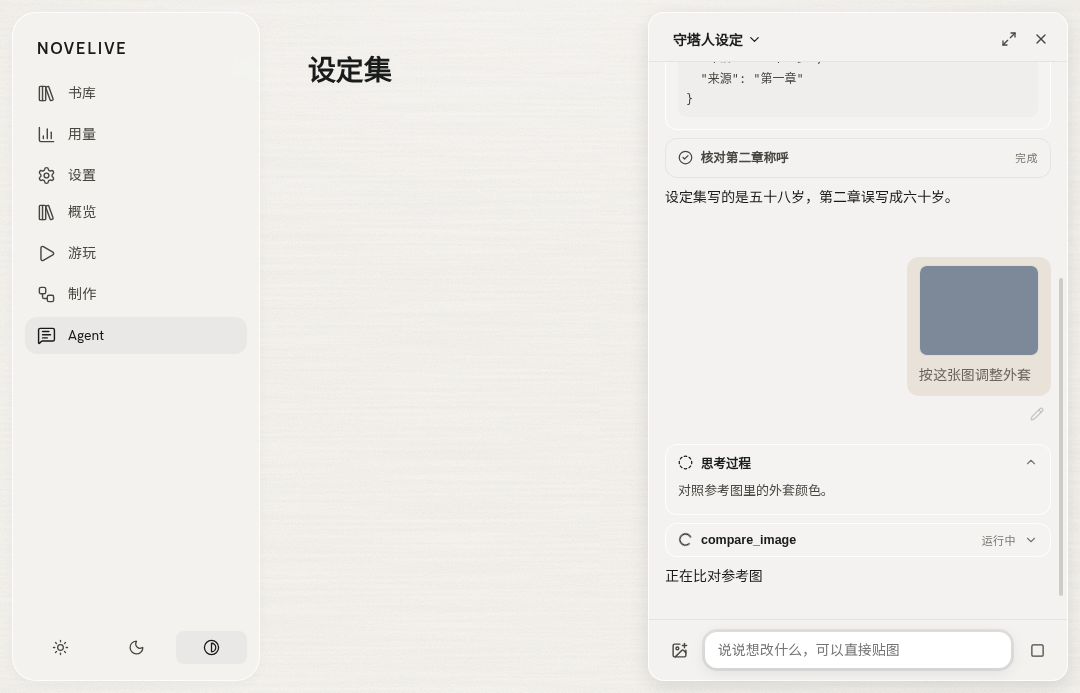
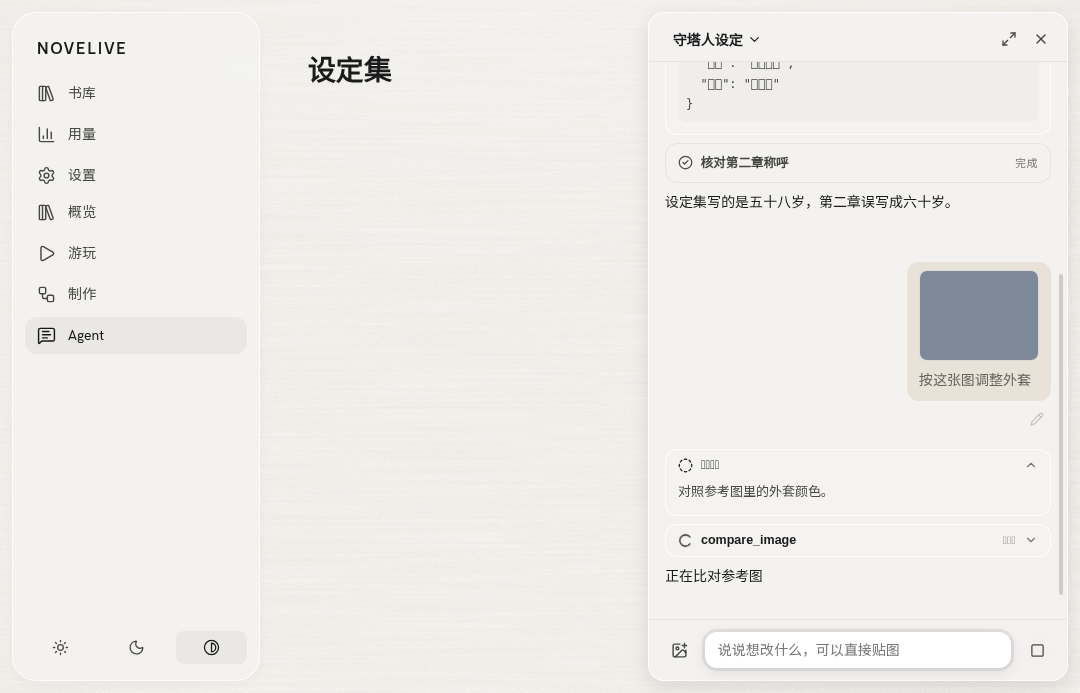
test(ui): reproduce CJK fallback without system fonts

diff --git a/tests/e2e/m2-chat.spec.ts b/tests/e2e/m2-chat.spec.ts
@@ -391,24 +391,6 @@ test('M2 chat panel pastes images, shows tools, stops, switches sessions and bra
 			await expect(
 				panel.getByRole('button', { name: '思考过程' }).last(),
 			).toHaveCSS('font-family', /Noto Sans CJK SC/)
-			if (process.env.NL_CJK_EVIDENCE) {
-				console.log(
-					'CJK computed fonts',
-					await panel.evaluate((root) =>
-						Array.from(root.querySelectorAll('pre, button'))
-							.filter(
-								(el) =>
-									el.tagName === 'PRE' ||
-									/思考过程|compare_image/.test(el.textContent ?? ''),
-							)
-							.map((el) => ({
-								text: el.textContent,
-								font: getComputedStyle(el).fontFamily,
-							})),
-					),
-				)
-				await page.screenshot({ path: process.env.NL_CJK_EVIDENCE })
-			}
 
 			await panel.getByRole('button', { name: '停止', exact: true }).click()
 			await expect(

diff --git a/.workflow/evidence/m2-editor/cjk-fonts.md b/.workflow/evidence/m2-editor/cjk-fonts.md
@@ -4,21 +4,25 @@
 
 - Environment: Ubuntu Linux, Electron, `NL_REPLAY=strict`, `xvfb-run -a`.
 - Fixture: `tests/e2e/m2-chat.spec.ts`, the same `streaming` capture used for `06-streaming.jpg`. The chat projection is local and makes no model calls.
-- Initially `fc-list :lang=zh` returned no entries. Installed distro fonts with `sudo apt-get install -y fonts-noto-cjk` before capturing the requested baseline.
-- `cjk-before.png` is **before the CSS change, after font installation**. Chinese already renders correctly there. Font installation alone removes the tofu seen in the original `06-streaming.jpg`.
+- Both screenshots were captured with **no system CJK fonts**: removed the previously installed distro font with `sudo apt-get remove -y fonts-noto-cjk`, ran `fc-cache -f`, and confirmed `fc-list :lang=zh` returned no entries before and after the runs.
+- For `cjk-before.png`, temporarily used the exact `packages/ui/src/styles/shell.css` and `tokens.css` from `origin/main` (`98989b1e51fdc1fc3810ccc3eeeddc2b34c3c9b8`). Restored the branch CSS for `cjk-after.png`. Both use the same streaming fixture. A throwaway `cjk-capture.spec.ts` captured screenshots and baseline computed fonts, then was deleted; no evidence-only logging or screenshot block remains in `m2-chat.spec.ts`.
 - Before CSS changes, `page.evaluate` / `getComputedStyle(element).fontFamily` returned:
 
 ```text
 JSON { "entry": "守塔人", "field": "年龄" }: monospace
 JSON { "年龄": "五十八岁", "来源": "第一章" }: monospace
+思考过程 button and title span: Arial
 compare_image运行中 button: Arial
+运行中 caption span: Arial
 ```
 
-The UA font bypass is real, but the button uses Arial here, not system-ui. Missing OS CJK fonts explain why those generic/control-font paths previously lacked Chinese glyphs. Body/headings instead use the explicit stack and the existing Noto Sans SC webfont imported in `packages/ui/src/main.tsx`. The original screenshot's runtime was not inspected; its causal explanation is inferred from that screenshot plus the reproduced CSS paths and font-installation result.
+The reproduced cause is the UA font bypass **in an environment without system CJK fonts**: JSON uses `monospace`, buttons and their captions use Arial (not system-ui), and neither selects the available CJK webfont. `cjk-before.png` reproduces tofu in all three places while body/headings render Chinese correctly. Font installation alone had masked this bug in the earlier baseline; these replacement screenshots isolate the CSS fix without that workaround.
+
+The desktop renderer imports `@fontsource/noto-sans-sc/chinese-simplified-400.css` in `packages/ui/src/main.tsx`; its existing emitted font assets are 1,142,552 bytes WOFF2 and 1,564,084 bytes WOFF (Chromium uses WOFF2). No font assets were added by this fix. Body/headings already select this webfont through the explicit font stacks; the fix makes controls and JSON select it too, independent of OS CJK font availability.
 
 ## After
 
-`cjk-after.png` shows the same streaming fixture with shared control inheritance and explicit CJK fallbacks. Computed fonts:
+`cjk-after.png` shows the same streaming fixture, still without system CJK fonts, with shared control inheritance and explicit CJK fallbacks. The stacks measured in the original branch verification are unchanged:
 
 ```text
 思考过程 button / compare_image运行中 button:
@@ -54,12 +58,15 @@ Found 1 info.
       Tests  351 passed (351)
 ```
 
-`NL_REPLAY=strict NL_CJK_EVIDENCE=.workflow/evidence/m2-editor/cjk-after.png xvfb-run -a pnpm test:e2e tests/e2e/m2-chat.spec.ts`:
+No-system-CJK verification, including the final `m2-chat.spec.ts` with its assertions retained and evidence block removed:
+
+`NL_REPLAY=strict xvfb-run -a pnpm test:e2e tests/e2e/m2-chat.spec.ts tests/e2e/cjk-capture.spec.ts` (the second spec was the local throwaway screenshot copy):
 
 ```text
-  ✓  1 tests/e2e/m2-chat.spec.ts:289:1 › M2 chat panel pastes images, shows tools, stops, switches sessions and branches (1.2s)
+  ✓  1 tests/e2e/m2-chat.spec.ts:289:1 › M2 chat panel pastes images, shows tools, stops, switches sessions and branches (1.0s)
+  ✓  2 tests/e2e/cjk-capture.spec.ts:289:1 › M2 chat panel pastes images, shows tools, stops, switches sessions and branches (1.2s)
 
-  1 passed (1.8s)
+  2 passed (1.8s)
 ```
 
-Screenshots were visually inspected: Chinese JSON, reasoning title and tool status render without tofu. No macOS/Windows runtime or separate prototype visual verification was performed.
+Both replacement screenshots were visually inspected: before has tofu in JSON, the reasoning title and tool status; after renders Chinese correctly in all three. No macOS/Windows runtime or separate prototype visual verification was performed. The typecheck/lint/unit results above are from the original implementation; this follow-up changes only evidence and removes test instrumentation.
